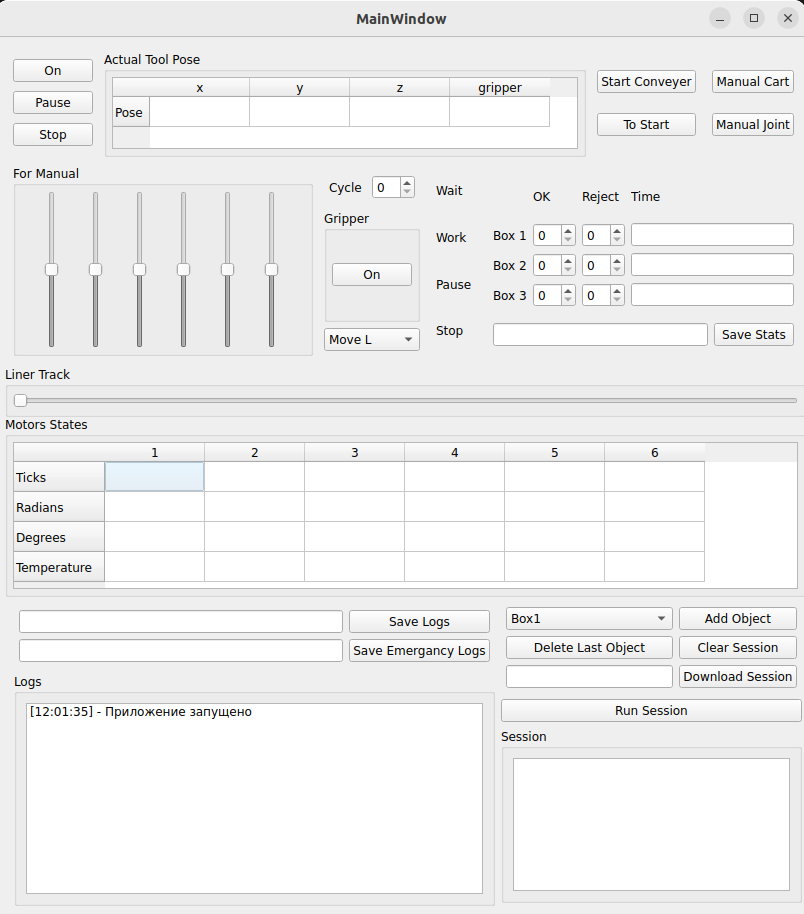
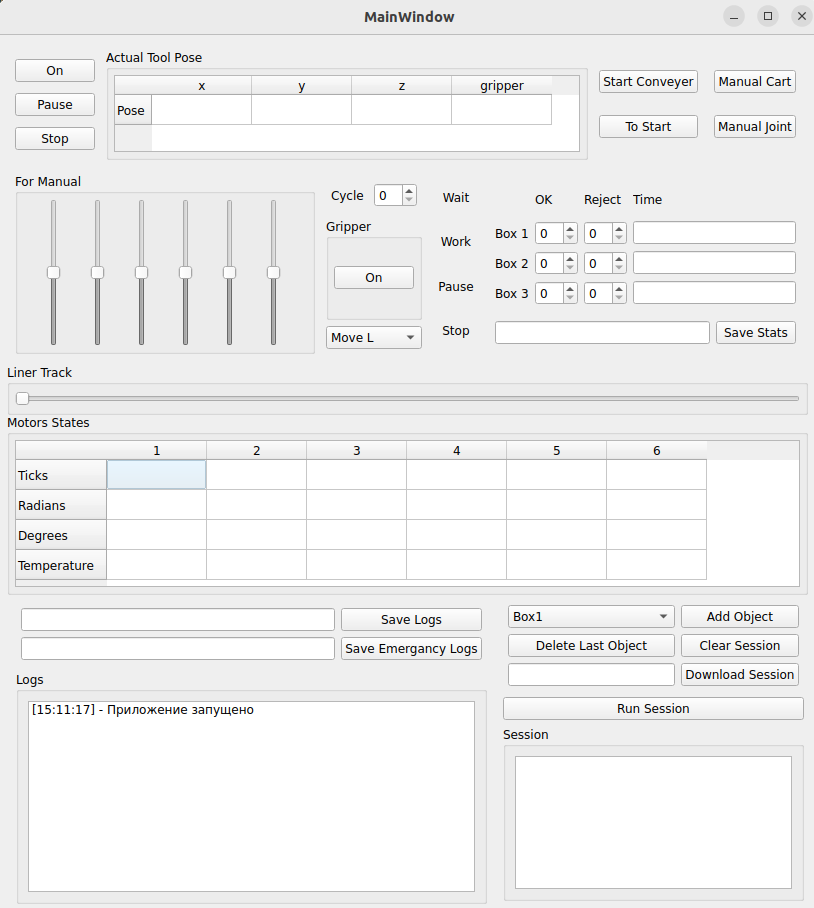
GUI update

diff --git a/design.py b/design.py
@@ -14,7 +14,7 @@ from PyQt5 import QtCore, QtGui, QtWidgets
 class Ui_MainWindow(object):
     def setupUi(self, MainWindow):
         MainWindow.setObjectName("MainWindow")
-        MainWindow.resize(810, 881)
+        MainWindow.resize(822, 881)
         self.centralwidget = QtWidgets.QWidget(MainWindow)
         self.centralwidget.setObjectName("centralwidget")
         self.verticalGroupBox = QtWidgets.QGroupBox(self.centralwidget)
@@ -69,28 +69,28 @@ class Ui_MainWindow(object):
         self.gridLayout_3 = QtWidgets.QGridLayout()
         self.gridLayout_3.setContentsMargins(5, 5, 5, 5)
         self.gridLayout_3.setObjectName("gridLayout_3")
-        self.btnAddObject = QtWidgets.QPushButton(self.layoutWidget_3)
-        self.btnAddObject.setObjectName("btnAddObject")
-        self.gridLayout_3.addWidget(self.btnAddObject, 1, 1, 1, 1)
-        self.btnDeleteLast = QtWidgets.QPushButton(self.layoutWidget_3)
-        self.btnDeleteLast.setObjectName("btnDeleteLast")
-        self.gridLayout_3.addWidget(self.btnDeleteLast, 2, 0, 1, 1)
-        self.btnClearSession = QtWidgets.QPushButton(self.layoutWidget_3)
-        self.btnClearSession.setObjectName("btnClearSession")
-        self.gridLayout_3.addWidget(self.btnClearSession, 2, 1, 1, 1)
-        self.btnDownloadSession = QtWidgets.QPushButton(self.layoutWidget_3)
-        self.btnDownloadSession.setObjectName("btnDownloadSession")
-        self.gridLayout_3.addWidget(self.btnDownloadSession, 3, 1, 1, 1)
-        self.leSessionPath = QtWidgets.QLineEdit(self.layoutWidget_3)
-        self.leSessionPath.setObjectName("leSessionPath")
-        self.gridLayout_3.addWidget(self.leSessionPath, 3, 0, 1, 1)
         self.cbObjects = QtWidgets.QComboBox(self.layoutWidget_3)
         self.cbObjects.setObjectName("cbObjects")
         self.cbObjects.addItem("")
         self.cbObjects.addItem("")
         self.cbObjects.addItem("")
         self.cbObjects.addItem("")
-        self.gridLayout_3.addWidget(self.cbObjects, 1, 0, 1, 1)
+        self.gridLayout_3.addWidget(self.cbObjects, 0, 0, 1, 1)
+        self.btnAddObject = QtWidgets.QPushButton(self.layoutWidget_3)
+        self.btnAddObject.setObjectName("btnAddObject")
+        self.gridLayout_3.addWidget(self.btnAddObject, 0, 1, 1, 1)
+        self.btnDeleteLast = QtWidgets.QPushButton(self.layoutWidget_3)
+        self.btnDeleteLast.setObjectName("btnDeleteLast")
+        self.gridLayout_3.addWidget(self.btnDeleteLast, 1, 0, 1, 1)
+        self.btnClearSession = QtWidgets.QPushButton(self.layoutWidget_3)
+        self.btnClearSession.setObjectName("btnClearSession")
+        self.gridLayout_3.addWidget(self.btnClearSession, 1, 1, 1, 1)
+        self.leSessionPath = QtWidgets.QLineEdit(self.layoutWidget_3)
+        self.leSessionPath.setObjectName("leSessionPath")
+        self.gridLayout_3.addWidget(self.leSessionPath, 2, 0, 1, 1)
+        self.btnDownloadSession = QtWidgets.QPushButton(self.layoutWidget_3)
+        self.btnDownloadSession.setObjectName("btnDownloadSession")
+        self.gridLayout_3.addWidget(self.btnDownloadSession, 2, 1, 1, 1)
         self.verticalLayout_13.addLayout(self.gridLayout_3)
         self.btnRunSession = QtWidgets.QPushButton(self.layoutWidget_3)
         self.btnRunSession.setObjectName("btnRunSession")
@@ -103,26 +103,26 @@ class Ui_MainWindow(object):
         self.lvSession.setObjectName("lvSession")
         self.verticalLayout_14.addWidget(self.lvSession)
         self.verticalLayout_13.addWidget(self.verticalGroupBox_2)
-        self.widget = QtWidgets.QWidget(self.centralwidget)
-        self.widget.setGeometry(QtCore.QRect(7, 9, 801, 116))
-        self.widget.setObjectName("widget")
-        self.horizontalLayout = QtWidgets.QHBoxLayout(self.widget)
+        self.layoutWidget = QtWidgets.QWidget(self.centralwidget)
+        self.layoutWidget.setGeometry(QtCore.QRect(7, 9, 801, 121))
+        self.layoutWidget.setObjectName("layoutWidget")
+        self.horizontalLayout = QtWidgets.QHBoxLayout(self.layoutWidget)
         self.horizontalLayout.setContentsMargins(5, 5, 5, 5)
         self.horizontalLayout.setObjectName("horizontalLayout")
         self.verticalLayout = QtWidgets.QVBoxLayout()
         self.verticalLayout.setContentsMargins(5, 5, 5, 5)
         self.verticalLayout.setObjectName("verticalLayout")
-        self.btnOnOff = QtWidgets.QPushButton(self.widget)
+        self.btnOnOff = QtWidgets.QPushButton(self.layoutWidget)
         self.btnOnOff.setObjectName("btnOnOff")
         self.verticalLayout.addWidget(self.btnOnOff)
-        self.btnPause = QtWidgets.QPushButton(self.widget)
+        self.btnPause = QtWidgets.QPushButton(self.layoutWidget)
         self.btnPause.setObjectName("btnPause")
         self.verticalLayout.addWidget(self.btnPause)
-        self.btnStop = QtWidgets.QPushButton(self.widget)
+        self.btnStop = QtWidgets.QPushButton(self.layoutWidget)
         self.btnStop.setObjectName("btnStop")
         self.verticalLayout.addWidget(self.btnStop)
         self.horizontalLayout.addLayout(self.verticalLayout)
-        self.verticalGroupBox2 = QtWidgets.QGroupBox(self.widget)
+        self.verticalGroupBox2 = QtWidgets.QGroupBox(self.layoutWidget)
         self.verticalGroupBox2.setObjectName("verticalGroupBox2")
         self.verticalLayout_4 = QtWidgets.QVBoxLayout(self.verticalGroupBox2)
         self.verticalLayout_4.setContentsMargins(5, 5, 5, 5)
@@ -146,92 +146,92 @@ class Ui_MainWindow(object):
         self.verticalLayout_2 = QtWidgets.QVBoxLayout()
         self.verticalLayout_2.setContentsMargins(5, 5, 5, 5)
         self.verticalLayout_2.setObjectName("verticalLayout_2")
-        self.btnStartConveyer = QtWidgets.QPushButton(self.widget)
+        self.btnStartConveyer = QtWidgets.QPushButton(self.layoutWidget)
         self.btnStartConveyer.setObjectName("btnStartConveyer")
         self.verticalLayout_2.addWidget(self.btnStartConveyer)
-        self.btnToStart = QtWidgets.QPushButton(self.widget)
+        self.btnToStart = QtWidgets.QPushButton(self.layoutWidget)
         self.btnToStart.setObjectName("btnToStart")
         self.verticalLayout_2.addWidget(self.btnToStart)
         self.horizontalLayout.addLayout(self.verticalLayout_2)
         self.verticalLayout_3 = QtWidgets.QVBoxLayout()
         self.verticalLayout_3.setContentsMargins(5, 5, 5, 5)
         self.verticalLayout_3.setObjectName("verticalLayout_3")
-        self.btnManualCart = QtWidgets.QPushButton(self.widget)
+        self.btnManualCart = QtWidgets.QPushButton(self.layoutWidget)
         self.btnManualCart.setObjectName("btnManualCart")
         self.verticalLayout_3.addWidget(self.btnManualCart)
-        self.btnManualJoint = QtWidgets.QPushButton(self.widget)
+        self.btnManualJoint = QtWidgets.QPushButton(self.layoutWidget)
         self.btnManualJoint.setObjectName("btnManualJoint")
         self.verticalLayout_3.addWidget(self.btnManualJoint)
         self.horizontalLayout.addLayout(self.verticalLayout_3)
-        self.widget1 = QtWidgets.QWidget(self.centralwidget)
-        self.widget1.setGeometry(QtCore.QRect(12, 123, 801, 201))
-        self.widget1.setObjectName("widget1")
-        self.horizontalLayout_5 = QtWidgets.QHBoxLayout(self.widget1)
+        self.layoutWidget1 = QtWidgets.QWidget(self.centralwidget)
+        self.layoutWidget1.setGeometry(QtCore.QRect(12, 133, 801, 191))
+        self.layoutWidget1.setObjectName("layoutWidget1")
+        self.horizontalLayout_5 = QtWidgets.QHBoxLayout(self.layoutWidget1)
         self.horizontalLayout_5.setContentsMargins(5, 5, 5, 5)
         self.horizontalLayout_5.setObjectName("horizontalLayout_5")
-        self.groupbox = QtWidgets.QGroupBox(self.widget1)
-        self.groupbox.setMinimumSize(QtCore.QSize(300, 0))
-        self.groupbox.setObjectName("groupbox")
-        self.horizontalLayout_2 = QtWidgets.QHBoxLayout(self.groupbox)
+        self.groupBox = QtWidgets.QGroupBox(self.layoutWidget1)
+        self.groupBox.setMinimumSize(QtCore.QSize(300, 0))
+        self.groupBox.setObjectName("groupBox")
+        self.horizontalLayout_2 = QtWidgets.QHBoxLayout(self.groupBox)
         self.horizontalLayout_2.setContentsMargins(5, 5, 5, 5)
         self.horizontalLayout_2.setObjectName("horizontalLayout_2")
-        self.s1 = QtWidgets.QSlider(self.groupbox)
+        self.s1 = QtWidgets.QSlider(self.groupBox)
         self.s1.setEnabled(False)
         self.s1.setMinimum(-50)
         self.s1.setMaximum(50)
         self.s1.setOrientation(QtCore.Qt.Vertical)
         self.s1.setObjectName("s1")
         self.horizontalLayout_2.addWidget(self.s1)
-        self.s2 = QtWidgets.QSlider(self.groupbox)
+        self.s2 = QtWidgets.QSlider(self.groupBox)
         self.s2.setEnabled(False)
         self.s2.setMinimum(-50)
         self.s2.setMaximum(50)
         self.s2.setOrientation(QtCore.Qt.Vertical)
         self.s2.setObjectName("s2")
         self.horizontalLayout_2.addWidget(self.s2)
-        self.s3 = QtWidgets.QSlider(self.groupbox)
+        self.s3 = QtWidgets.QSlider(self.groupBox)
         self.s3.setEnabled(False)
         self.s3.setMinimum(-50)
         self.s3.setMaximum(50)
         self.s3.setOrientation(QtCore.Qt.Vertical)
         self.s3.setObjectName("s3")
         self.horizontalLayout_2.addWidget(self.s3)
-        self.s4 = QtWidgets.QSlider(self.groupbox)
+        self.s4 = QtWidgets.QSlider(self.groupBox)
         self.s4.setEnabled(False)
         self.s4.setMinimum(-50)
         self.s4.setMaximum(50)
         self.s4.setOrientation(QtCore.Qt.Vertical)
         self.s4.setObjectName("s4")
         self.horizontalLayout_2.addWidget(self.s4)
-        self.s5 = QtWidgets.QSlider(self.groupbox)
+        self.s5 = QtWidgets.QSlider(self.groupBox)
         self.s5.setEnabled(False)
         self.s5.setMinimum(-50)
         self.s5.setMaximum(50)
         self.s5.setOrientation(QtCore.Qt.Vertical)
         self.s5.setObjectName("s5")
         self.horizontalLayout_2.addWidget(self.s5)
-        self.s6 = QtWidgets.QSlider(self.groupbox)
+        self.s6 = QtWidgets.QSlider(self.groupBox)
         self.s6.setEnabled(False)
         self.s6.setMinimum(-50)
         self.s6.setMaximum(50)
         self.s6.setOrientation(QtCore.Qt.Vertical)
         self.s6.setObjectName("s6")
         self.horizontalLayout_2.addWidget(self.s6)
-        self.horizontalLayout_5.addWidget(self.groupbox)
+        self.horizontalLayout_5.addWidget(self.groupBox)
         self.verticalLayout_6 = QtWidgets.QVBoxLayout()
         self.verticalLayout_6.setContentsMargins(5, 5, 5, 5)
         self.verticalLayout_6.setObjectName("verticalLayout_6")
         self.horizontalLayout_3 = QtWidgets.QHBoxLayout()
         self.horizontalLayout_3.setContentsMargins(5, 5, 5, 5)
         self.horizontalLayout_3.setObjectName("horizontalLayout_3")
-        self.label = QtWidgets.QLabel(self.widget1)
+        self.label = QtWidgets.QLabel(self.layoutWidget1)
         self.label.setObjectName("label")
         self.horizontalLayout_3.addWidget(self.label)
-        self.spinBox = QtWidgets.QSpinBox(self.widget1)
+        self.spinBox = QtWidgets.QSpinBox(self.layoutWidget1)
         self.spinBox.setObjectName("spinBox")
         self.horizontalLayout_3.addWidget(self.spinBox)
         self.verticalLayout_6.addLayout(self.horizontalLayout_3)
-        self.verticalGroupBox3 = QtWidgets.QGroupBox(self.widget1)
+        self.verticalGroupBox3 = QtWidgets.QGroupBox(self.layoutWidget1)
         self.verticalGroupBox3.setObjectName("verticalGroupBox3")
         self.verticalLayout_5 = QtWidgets.QVBoxLayout(self.verticalGroupBox3)
         self.verticalLayout_5.setContentsMargins(5, 5, 5, 5)
@@ -240,7 +240,7 @@ class Ui_MainWindow(object):
         self.btnGripperOnOff.setObjectName("btnGripperOnOff")
         self.verticalLayout_5.addWidget(self.btnGripperOnOff)
         self.verticalLayout_6.addWidget(self.verticalGroupBox3)
-        self.cbMoves = QtWidgets.QComboBox(self.widget1)
+        self.cbMoves = QtWidgets.QComboBox(self.layoutWidget1)
         self.cbMoves.setObjectName("cbMoves")
         self.cbMoves.addItem("")
         self.cbMoves.addItem("")
@@ -250,16 +250,20 @@ class Ui_MainWindow(object):
         self.verticalLayout_7 = QtWidgets.QVBoxLayout()
         self.verticalLayout_7.setContentsMargins(5, 5, 5, 5)
         self.verticalLayout_7.setObjectName("verticalLayout_7")
-        self.lWait = QtWidgets.QLabel(self.widget1)
+        self.lWait = QtWidgets.QLabel(self.layoutWidget1)
+        self.lWait.setAlignment(QtCore.Qt.AlignCenter)
         self.lWait.setObjectName("lWait")
         self.verticalLayout_7.addWidget(self.lWait)
-        self.lWork = QtWidgets.QLabel(self.widget1)
+        self.lWork = QtWidgets.QLabel(self.layoutWidget1)
+        self.lWork.setAlignment(QtCore.Qt.AlignCenter)
         self.lWork.setObjectName("lWork")
         self.verticalLayout_7.addWidget(self.lWork)
-        self.lPause = QtWidgets.QLabel(self.widget1)
+        self.lPause = QtWidgets.QLabel(self.layoutWidget1)
+        self.lPause.setAlignment(QtCore.Qt.AlignCenter)
         self.lPause.setObjectName("lPause")
         self.verticalLayout_7.addWidget(self.lPause)
-        self.lStop = QtWidgets.QLabel(self.widget1)
+        self.lStop = QtWidgets.QLabel(self.layoutWidget1)
+        self.lStop.setAlignment(QtCore.Qt.AlignCenter)
         self.lStop.setObjectName("lStop")
         self.verticalLayout_7.addWidget(self.lStop)
         self.horizontalLayout_5.addLayout(self.verticalLayout_7)
@@ -269,86 +273,86 @@ class Ui_MainWindow(object):
         self.gridLayout = QtWidgets.QGridLayout()
         self.gridLayout.setContentsMargins(5, 5, 5, 5)
         self.gridLayout.setObjectName("gridLayout")
-        self.label_5 = QtWidgets.QLabel(self.widget1)
+        self.label_5 = QtWidgets.QLabel(self.layoutWidget1)
         self.label_5.setObjectName("label_5")
         self.gridLayout.addWidget(self.label_5, 0, 1, 1, 1)
-        self.label_6 = QtWidgets.QLabel(self.widget1)
+        self.label_6 = QtWidgets.QLabel(self.layoutWidget1)
         self.label_6.setObjectName("label_6")
         self.gridLayout.addWidget(self.label_6, 0, 2, 1, 1)
-        self.label_7 = QtWidgets.QLabel(self.widget1)
+        self.label_7 = QtWidgets.QLabel(self.layoutWidget1)
         self.label_7.setObjectName("label_7")
         self.gridLayout.addWidget(self.label_7, 0, 3, 1, 1)
-        self.label_2 = QtWidgets.QLabel(self.widget1)
+        self.label_2 = QtWidgets.QLabel(self.layoutWidget1)
         self.label_2.setObjectName("label_2")
         self.gridLayout.addWidget(self.label_2, 1, 0, 1, 1)
-        self.sb11 = QtWidgets.QSpinBox(self.widget1)
+        self.sb11 = QtWidgets.QSpinBox(self.layoutWidget1)
         self.sb11.setObjectName("sb11")
         self.gridLayout.addWidget(self.sb11, 1, 1, 1, 1)
-        self.sb21 = QtWidgets.QSpinBox(self.widget1)
+        self.sb21 = QtWidgets.QSpinBox(self.layoutWidget1)
         self.sb21.setObjectName("sb21")
         self.gridLayout.addWidget(self.sb21, 1, 2, 1, 1)
-        self.leTime31 = QtWidgets.QLineEdit(self.widget1)
+        self.leTime31 = QtWidgets.QLineEdit(self.layoutWidget1)
         self.leTime31.setObjectName("leTime31")
         self.gridLayout.addWidget(self.leTime31, 1, 3, 1, 1)
-        self.label_3 = QtWidgets.QLabel(self.widget1)
+        self.label_3 = QtWidgets.QLabel(self.layoutWidget1)
         self.label_3.setObjectName("label_3")
         self.gridLayout.addWidget(self.label_3, 2, 0, 1, 1)
-        self.sb12 = QtWidgets.QSpinBox(self.widget1)
+        self.sb12 = QtWidgets.QSpinBox(self.layoutWidget1)
         self.sb12.setObjectName("sb12")
         self.gridLayout.addWidget(self.sb12, 2, 1, 1, 1)
-        self.sb22 = QtWidgets.QSpinBox(self.widget1)
+        self.sb22 = QtWidgets.QSpinBox(self.layoutWidget1)
         self.sb22.setObjectName("sb22")
         self.gridLayout.addWidget(self.sb22, 2, 2, 1, 1)
-        self.leTime32 = QtWidgets.QLineEdit(self.widget1)
+        self.leTime32 = QtWidgets.QLineEdit(self.layoutWidget1)
         self.leTime32.setObjectName("leTime32")
         self.gridLayout.addWidget(self.leTime32, 2, 3, 1, 1)
-        self.label_4 = QtWidgets.QLabel(self.widget1)
+        self.label_4 = QtWidgets.QLabel(self.layoutWidget1)
         self.label_4.setObjectName("label_4")
         self.gridLayout.addWidget(self.label_4, 3, 0, 1, 1)
-        self.sb13 = QtWidgets.QSpinBox(self.widget1)
+        self.sb13 = QtWidgets.QSpinBox(self.layoutWidget1)
         self.sb13.setObjectName("sb13")
         self.gridLayout.addWidget(self.sb13, 3, 1, 1, 1)
-        self.sb23 = QtWidgets.QSpinBox(self.widget1)
+        self.sb23 = QtWidgets.QSpinBox(self.layoutWidget1)
         self.sb23.setObjectName("sb23")
         self.gridLayout.addWidget(self.sb23, 3, 2, 1, 1)
-        self.leTime33 = QtWidgets.QLineEdit(self.widget1)
+        self.leTime33 = QtWidgets.QLineEdit(self.layoutWidget1)
         self.leTime33.setObjectName("leTime33")
         self.gridLayout.addWidget(self.leTime33, 3, 3, 1, 1)
         self.verticalLayout_8.addLayout(self.gridLayout)
         self.horizontalLayout_4 = QtWidgets.QHBoxLayout()
         self.horizontalLayout_4.setContentsMargins(5, 5, 5, 5)
         self.horizontalLayout_4.setObjectName("horizontalLayout_4")
-        self.leStatsPath = QtWidgets.QLineEdit(self.widget1)
+        self.leStatsPath = QtWidgets.QLineEdit(self.layoutWidget1)
         self.leStatsPath.setObjectName("leStatsPath")
         self.horizontalLayout_4.addWidget(self.leStatsPath)
-        self.btnSaveStats = QtWidgets.QPushButton(self.widget1)
+        self.btnSaveStats = QtWidgets.QPushButton(self.layoutWidget1)
         self.btnSaveStats.setObjectName("btnSaveStats")
         self.horizontalLayout_4.addWidget(self.btnSaveStats)
         self.verticalLayout_8.addLayout(self.horizontalLayout_4)
         self.horizontalLayout_5.addLayout(self.verticalLayout_8)
-        self.widget2 = QtWidgets.QWidget(self.centralwidget)
-        self.widget2.setGeometry(QtCore.QRect(13, 563, 491, 311))
-        self.widget2.setObjectName("widget2")
-        self.verticalLayout_12 = QtWidgets.QVBoxLayout(self.widget2)
+        self.layoutWidget2 = QtWidgets.QWidget(self.centralwidget)
+        self.layoutWidget2.setGeometry(QtCore.QRect(13, 563, 481, 311))
+        self.layoutWidget2.setObjectName("layoutWidget2")
+        self.verticalLayout_12 = QtWidgets.QVBoxLayout(self.layoutWidget2)
         self.verticalLayout_12.setContentsMargins(5, 5, 5, 5)
         self.verticalLayout_12.setObjectName("verticalLayout_12")
         self.gridLayout_2 = QtWidgets.QGridLayout()
         self.gridLayout_2.setContentsMargins(5, 5, 5, 5)
         self.gridLayout_2.setObjectName("gridLayout_2")
-        self.leLogsPath = QtWidgets.QLineEdit(self.widget2)
+        self.leLogsPath = QtWidgets.QLineEdit(self.layoutWidget2)
         self.leLogsPath.setObjectName("leLogsPath")
         self.gridLayout_2.addWidget(self.leLogsPath, 0, 0, 1, 1)
-        self.btnSaveLogs = QtWidgets.QPushButton(self.widget2)
+        self.btnSaveLogs = QtWidgets.QPushButton(self.layoutWidget2)
         self.btnSaveLogs.setObjectName("btnSaveLogs")
         self.gridLayout_2.addWidget(self.btnSaveLogs, 0, 1, 1, 1)
-        self.leELogsPath = QtWidgets.QLineEdit(self.widget2)
+        self.leELogsPath = QtWidgets.QLineEdit(self.layoutWidget2)
         self.leELogsPath.setObjectName("leELogsPath")
         self.gridLayout_2.addWidget(self.leELogsPath, 1, 0, 1, 1)
-        self.btnSaveELogs = QtWidgets.QPushButton(self.widget2)
+        self.btnSaveELogs = QtWidgets.QPushButton(self.layoutWidget2)
         self.btnSaveELogs.setObjectName("btnSaveELogs")
         self.gridLayout_2.addWidget(self.btnSaveELogs, 1, 1, 1, 1)
         self.verticalLayout_12.addLayout(self.gridLayout_2)
-        self.verticalGroupBox4 = QtWidgets.QGroupBox(self.widget2)
+        self.verticalGroupBox4 = QtWidgets.QGroupBox(self.layoutWidget2)
         self.verticalGroupBox4.setObjectName("verticalGroupBox4")
         self.verticalLayout_11 = QtWidgets.QVBoxLayout(self.verticalGroupBox4)
         self.verticalLayout_11.setObjectName("verticalLayout_11")
@@ -386,14 +390,14 @@ class Ui_MainWindow(object):
         item.setText(_translate("MainWindow", "5"))
         item = self.twMotorsStates.horizontalHeaderItem(5)
         item.setText(_translate("MainWindow", "6"))
-        self.btnAddObject.setText(_translate("MainWindow", "Add Object"))
-        self.btnDeleteLast.setText(_translate("MainWindow", "Delete Last Object"))
-        self.btnClearSession.setText(_translate("MainWindow", "Clear Session"))
-        self.btnDownloadSession.setText(_translate("MainWindow", "Download Session"))
         self.cbObjects.setItemText(0, _translate("MainWindow", "Box1"))
         self.cbObjects.setItemText(1, _translate("MainWindow", "Box2"))
         self.cbObjects.setItemText(2, _translate("MainWindow", "Box3"))
         self.cbObjects.setItemText(3, _translate("MainWindow", "Reject"))
+        self.btnAddObject.setText(_translate("MainWindow", "Add Object"))
+        self.btnDeleteLast.setText(_translate("MainWindow", "Delete Last Object"))
+        self.btnClearSession.setText(_translate("MainWindow", "Clear Session"))
+        self.btnDownloadSession.setText(_translate("MainWindow", "Download Session"))
         self.btnRunSession.setText(_translate("MainWindow", "Run Session"))
         self.verticalGroupBox_2.setTitle(_translate("MainWindow", "Session"))
         self.btnOnOff.setText(_translate("MainWindow", "On"))
@@ -414,7 +418,7 @@ class Ui_MainWindow(object):
         self.btnToStart.setText(_translate("MainWindow", "To Start"))
         self.btnManualCart.setText(_translate("MainWindow", "Manual Cart"))
         self.btnManualJoint.setText(_translate("MainWindow", "Manual Joint"))
-        self.groupbox.setTitle(_translate("MainWindow", "For Manual"))
+        self.groupBox.setTitle(_translate("MainWindow", "For Manual"))
         self.label.setText(_translate("MainWindow", "Cycle"))
         self.verticalGroupBox3.setTitle(_translate("MainWindow", "Gripper"))
         self.btnGripperOnOff.setText(_translate("MainWindow", "On"))
